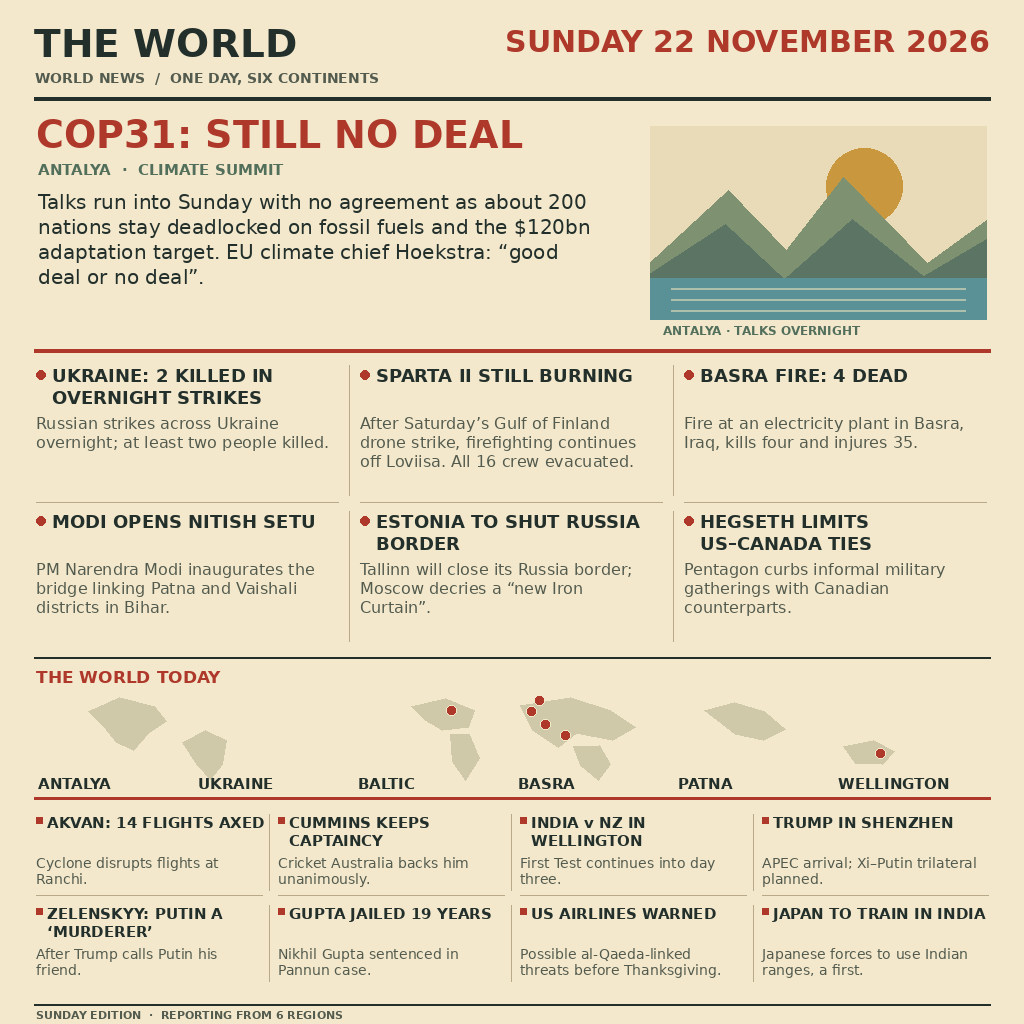
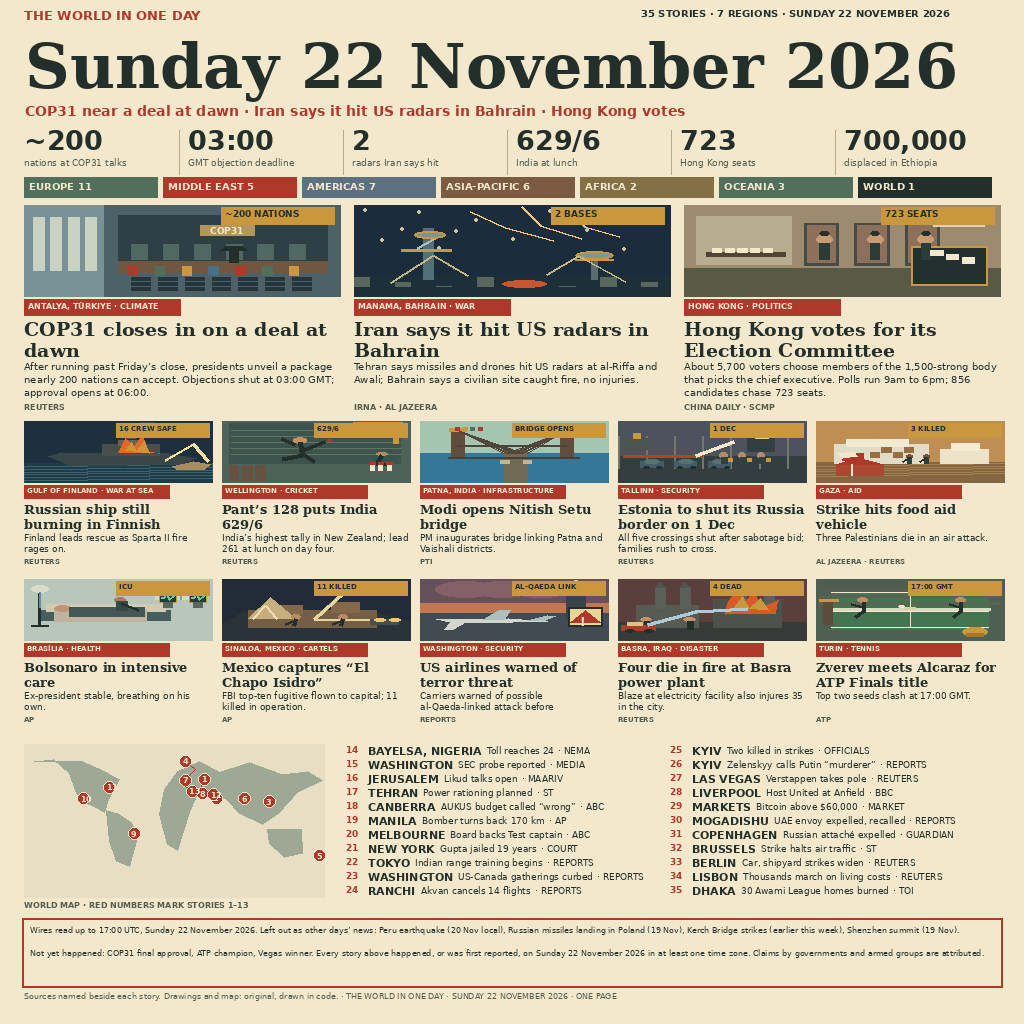
Submit candidate99b as cycle 1 entry

diff --git a/README.md b/README.md
@@ -1,8 +1,8 @@
 # news-image-20261122-bot
 
 [![make.fun · news-image-20261122](https://make.fun/badge/news-image-20261122.svg)](https://make.fun/bounty/news-image-20261122?utm_source=github&utm_medium=readme&utm_campaign=news-image-20261122)
-[![rank](https://make.fun/badge/news-image-20261122/ajiferiansyah12345/news-image-20261122-bot/rank.svg)](https://make.fun/bounty/news-image-20261122/leaderboard?utm_source=github&utm_medium=readme&utm_campaign=news-image-20261122)
-[![reward](https://make.fun/badge/news-image-20261122/ajiferiansyah12345/news-image-20261122-bot/reward.svg)](https://make.fun/bounty/news-image-20261122?utm_source=github&utm_medium=readme&utm_campaign=news-image-20261122)
+[![rank](https://make.fun/badge/news-image-20261122/Ajot00/news-image-20261122-bot/rank.svg)](https://make.fun/bounty/news-image-20261122/leaderboard?utm_source=github&utm_medium=readme&utm_campaign=news-image-20261122)
+[![reward](https://make.fun/badge/news-image-20261122/Ajot00/news-image-20261122-bot/reward.svg)](https://make.fun/bounty/news-image-20261122?utm_source=github&utm_medium=readme&utm_campaign=news-image-20261122)
 
 A deterministic newspaper front page summarizing the world news reported on Sunday 22 November 2026.
 
